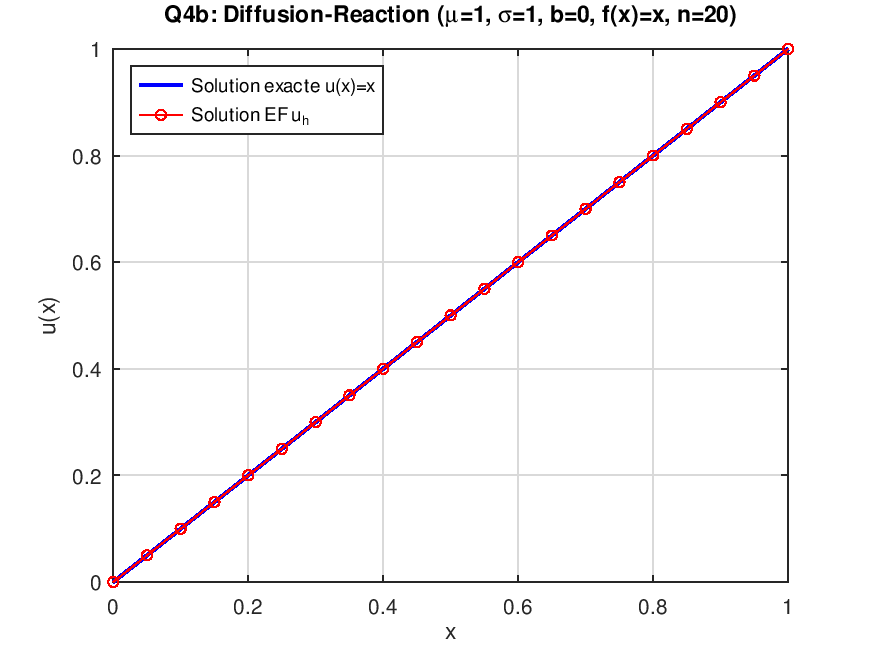
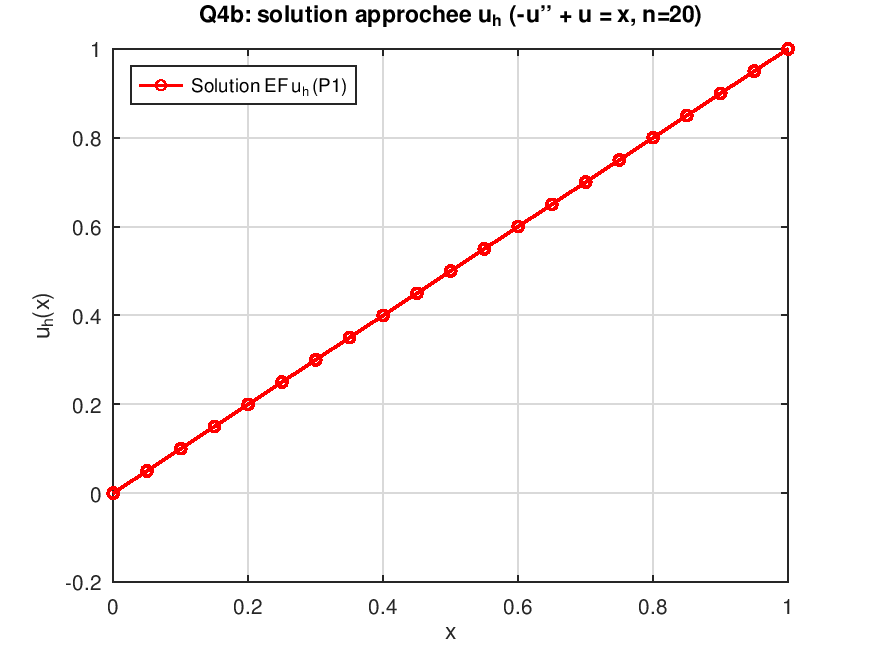
Q4b: application directe des routines fournies (load f(x)=x assemble a la main)

diff --git a/src/q4b_diffusion_reaction.m b/src/q4b_diffusion_reaction.m
@@ -1,26 +1,92 @@
-%% Q4b - Diffusion-Reaction: mu=sigma=1, b=0, f(x)=x
-%  -u'' + u = x on (0,1), u(0)=0, u(1)=1
-%  Exact solution: u(x) = x
+%% Q4b - Diffusion-Reaction : -u'' + u = x, u(0)=0, u(1)=1
+%  Mise en application DIRECTE des routines fournies (comme Diff_Trans_Reac1D.m)
+%  pour les parametres specifiques de Q4b, puis trace de la solution approchee u_h.
+%
+%  Forme du template fourni :  a u'' + b u' + c u = f
+%  Ici : a=acoef=-1, b=bcoef=0, c=ccoef=1, f(x)=x  =>  -u'' + u = x
+%
+%  Remarque : f(x)=x n'est PAS constante, donc fef1l (qui ne fait que f=1)
+%  ne convient pas. On assemble le vecteur charge elementaire a la main par
+%  quadrature de Gauss a 2 points (exacte ici). L'assemblage de la matrice
+%  et les conditions aux limites utilisent les routines fournies.
 
 clear; close all;
+if exist('OCTAVE_VERSION','builtin'), graphics_toolkit('fltk'); warning('off','all'); end
 
-mu = 1; b_coef = 0; sigma = 1;
-fhandle = @(x) x;
-n = 20;
+%--- parametres de controle ---
+nel   = 20;            % nombre d'elements
+nnel  = 2;             % noeuds par element
+ndof  = 1;             % ddl par noeud
+nnode = nel + 1;       % nombre total de noeuds
+sdof  = nnode*ndof;    % ddl total
 
-[xnodes, uh] = solve_dtr(mu, b_coef, sigma, n, fhandle, 'galerkin');
+%--- coordonnees nodales ---
+h = 1/nel;
+for i = 1:nnode
+  gcoord(i) = (i-1)*h;
+end
 
-% exact solution
-x_exact = linspace(0,1,200)';
-u_exact = x_exact;   % u(x)=x
+%--- connectivite ---
+for iel = 1:nel
+  nodes(iel,1) = iel;
+  nodes(iel,2) = iel+1;
+end
 
+%--- coefficients de l'EDO ---
+acoef = -1;   % a (= -mu)
+bcoef =  0;   % b
+ccoef =  1;   % c (= sigma)
+ffun  = @(x) x;   % second membre f(x)=x
+
+%--- conditions aux limites ---
+bcdof(1) = 1;     bcval(1) = 0;     % u(0) = 0
+bcdof(2) = nnode; bcval(2) = 1;     % u(1) = 1
+
+%--- initialisation ---
+ff = zeros(sdof,1);
+kk = zeros(sdof,sdof);
+
+%--- points de Gauss a 2 points sur [-1,1] ---
+gp = [-1/sqrt(3), 1/sqrt(3)];
+gw = [1, 1];
+
+%--- assemblage ---
+for iel = 1:nel
+  nl = nodes(iel,1); nr = nodes(iel,2);
+  xl = gcoord(nl);   xr = gcoord(nr);
+  eleng = xr - xl;
+  index = feeldof1(iel,nnel,ndof);          % ddl de l'element (fourni)
+  k = feode2l(acoef,bcoef,ccoef,eleng);     % matrice elementaire (fourni)
+
+  % vecteur charge elementaire pour f(x) quelconque (Gauss 2 pts, exact ici)
+  f = [0; 0];
+  for g = 1:2
+    xi  = gp(g);
+    N1  = 0.5*(1-xi);
+    N2  = 0.5*(1+xi);
+    xg  = N1*xl + N2*xr;
+    jac = eleng/2;
+    fx  = ffun(xg);
+    f(1) = f(1) + gw(g)*fx*N1*jac;
+    f(2) = f(2) + gw(g)*fx*N2*jac;
+  end
+
+  [kk,ff] = feasmbl2(kk,ff,k,f,index);      % assemblage (fourni)
+end
+
+%--- application des conditions de Dirichlet (fourni) ---
+[kk,ff] = feaplyc2(kk,ff,bcdof,bcval);
+
+%--- resolution ---
+fsol = kk \ ff;
+
+%--- representation graphique de la solution approchee u_h ---
 figure();
-plot(x_exact, u_exact, 'b-', 'LineWidth', 1.5); hold on;
-plot(xnodes, uh, 'ro-', 'MarkerSize', 5);
-xlabel('x'); ylabel('u(x)');
-title(sprintf('Q4b: Diffusion-Reaction (\\mu=%g, \\sigma=%g, b=%g, f(x)=x, n=%d)', ...
-      mu, sigma, b_coef, n));
-legend('Solution exacte u(x)=x', 'Solution EF u_h', 'Location', 'NorthWest');
+plot(gcoord, fsol, 'ro-', 'MarkerSize', 5, 'LineWidth', 1.2);
+xlabel('x'); ylabel('u_h(x)');
+title(sprintf('Q4b: solution approchee u_h (-u'''' + u = x, n=%d)', nel));
+legend('Solution EF u_h (P1)', 'Location', 'NorthWest');
 grid on;
 print('-dpng', '-r150', '../figures/q4b_diffusion_reaction.png');
-fprintf('Q4b done. Max error = %e\n', max(abs(uh - xnodes)));
+
+fprintf('Q4b done. n=%d, u_h(0)=%.4f, u_h(1)=%.4f\n', nel, fsol(1), fsol(end));
